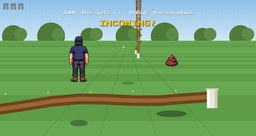
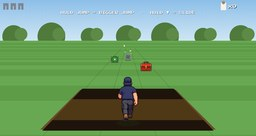
Cleanout Blowout: Crash-style run - hold for bigger jumps, stick steering, slide under high blasts and leaping dogs, septic holes, rolling trash cans, hose reels, toolboxes, TP rolls (25 = spare pants); falling corn only hurts if it lands on you
Claude-Session: https://claude.ai/code/session_01QR4rFRbYTeq9tRTzXkRUE8

diff --git a/arcade/games.js b/arcade/games.js
@@ -195,97 +195,148 @@ GAMES.push({
 });
 
 // =====================================================================
-// 2. CLEANOUT BLOWOUT — a 3D run across the yard to the van. Cleanouts blast jets ACROSS your path (jump them),
-//    and some shoot STRAIGHT UP, raining turds and corn (watch the shadows, switch lanes).
+// 2. CLEANOUT BLOWOUT — a Crash-style 3D run across the yard to the van.
+//    Jets blast across the path (jump: hold for a bigger jump), high blasts and leaping dogs (slide under),
+//    open septic holes, rolling trash cans, hose reels, geysers raining turds and corn (watch the shadows),
+//    TP rolls to grab and toolboxes to bust open.
 GAMES.push({
-  id: 'sprinkler', name: 'CLEANOUT BLOWOUT', tag: 'Run the yard · jump the jets · dodge the fallout',
-  how: ['The whole line backed up and every cleanout in the yard is blowing its cap. RUN FOR THE VAN.', 'Brown jets blast ACROSS the yard: JUMP over them (▲, SPACE, or tap the middle).', 'When a cleanout shoots STRAIGHT UP, turds and corn rain down. Watch for the SHADOWS and switch lanes (◀ ▶ or tap the sides).', 'Do not run into the cleanout pipes themselves.', 'Get hit too many times and that is it for your pants. Reach the van!'],
-  dpad: 'lr',
-  ctl: '◀ ▶ CHANGE LANE · ▲ / SPACE JUMP',
-  act: 'JUMP',
+  id: 'sprinkler', name: 'CLEANOUT BLOWOUT', tag: 'Run the yard · jump, slide, dodge · grab the TP',
+  how: ['The whole line backed up and every cleanout in the yard blew its cap. RUN FOR THE VAN.', 'JUMP the brown jets. Tap for a hop, HOLD for a big jump (the tall blasts and the long septic holes need a big one).', 'SLIDE under the high blasts and the dogs leaping at your head (hold ▼ or the SLIDE button).', 'When a cleanout shoots STRAIGHT UP, turds and corn rain down: watch the SHADOWS and steer clear. Dodge rolling trash cans and hose reels.', 'Grab TP rolls. 25 rolls = a spare pair of pants. Bust toolboxes open for more.'],
+  dpad: 'omni',
+  ctl: 'STICK STEER · ▲/SPACE JUMP (HOLD = HIGHER) · ▼/SHIFT SLIDE',
+  act: 'JUMP', act2: 'SLIDE',
   init(s) {
-    s.DIST = [430, 520, 600][s.diff]; s.z = 0; s.v = 0; s.lane = 0; s.lx = 0; s.jy = 0; s.jv = 0; s.objs = []; s.next = 22; s.n = 0;
-    s.pantsMax = s.pants = [4, 3, 3][s.diff]; s.inv = 0; s.hits = 0; s.splats = []; s.say = ''; s.sayT = 0;
+    s.DIST = [520, 620, 720][s.diff]; s.z = 0; s.v = 0; s.x = 0; s.tx = null; s.jy = 0; s.jv = 0; s.hold = 0; s.slide = 0; s.objs = []; s.next = 24; s.n = 0;
+    s.pantsMax = s.pants = [4, 3, 3][s.diff]; s.inv = 0; s.hits = 0; s.say = ''; s.sayT = 0; s.tp = 0; s.tpAll = 0; s.pops = []; s.fall = 0;
   },
-  G: 26, D: 6, HY: 92, FY: 246, LW: 92, U: 58,   /* gravity · camera distance · horizon y · feet y · lane width · px per world unit at the runner */
-  P(s, rel, lx, h) { const sc = this.D / (Math.max(-this.D * 0.9, rel) + this.D); return { x: 240 + lx * this.LW * sc, y: this.HY + (this.FY - this.HY) * sc - (h || 0) * this.U * sc, sc }; },
-  hit(s, word) { if (s.inv > 0) return; s.pants--; s.hits++; s.inv = 1.1; s.shake = 0.35; s.say = word; s.sayT = 1.2; SFX('splash', { vol: 0.7 }); },
+  G: 30, D: 6, HY: 92, FY: 246, LW: 92, U: 58, XM: 1.35,
+  P(s, rel, x, h) { const sc = this.D / (Math.max(-this.D * 0.9, rel) + this.D); return { x: 240 + x * this.LW * sc, y: this.HY + (this.FY - this.HY) * sc - (h || 0) * this.U * sc, sc }; },
+  hit(s, word) { if (s.inv > 0) return; s.pants--; s.hits++; s.inv = 1.2; s.shake = 0.35; s.say = word; s.sayT = 1.2; SFX('splash', { vol: 0.7 }); },
+  pop(s, txt, col) { s.pops.push({ txt, col: col || '#fff', t: 0 }); },
+  body(s) { return [s.jy, s.jy + (s.slide > 0 && s.jy <= 0 ? 0.75 : 1.7)]; },   /* feet to head (sliding: much lower) */
+  touch(s, o, lo, hi, half) { const [a, b2] = this.body(s); return Math.abs((o.x || 0) - s.x) < (half || 0.45) && a < hi && b2 > lo; },
+  piece(s, z, ramp) {   /* one set piece of the yard, Crash style. Returns how far until the next one. */
+    const O = s.objs, R2 = () => s.rnd(), lane = () => Math.floor(R2() * 3) - 1, tpLine = (z0, x, n, h, dz) => { for (let i = 0; i < n; i++) { O.push({ k: 'tp', wz: z0 + i * (dz || 1.6), x, h: typeof h === 'function' ? h(i) : h }); s.tpAll++; } };
+    const opts = [['jet', 5], ['jetT', 2 + ramp * 3], ['jetH', 2 + ramp * 2], ['dog', 2 + ramp * 3], ['hole', 2 + ramp * 3], ['can', 2 + ramp * 2], ['reel', 3], ['box', 2]];
+    if (s.n > 2) opts.push(['gey', 3 + ramp * 2]);
+    let tot = opts.reduce((q, o) => q + o[1], 0), r = R2() * tot, k = opts[0][0]; for (const o of opts) { if ((r -= o[1]) <= 0) { k = o[0]; break; } }
+    const side = R2() < 0.5 ? -1 : 1;
+    if (k === 'jet' || k === 'jetT' || k === 'jetH') { const h = k === 'jet' ? 0.38 : k === 'jetT' ? 0.85 : 1.45, th = k === 'jetT' ? 0.75 : 0.45;   /* low: hop · tall: big jump · high: slide under */
+      O.push({ k: 'jet', wz: z, side, c: h, th, wob: R2() * 6, kind: k }, { k: 'pipe', wz: z, x: side * 2.1, tall: k === 'jetH' ? 1.7 : 0.75 });
+      if (k !== 'jetH') tpLine(z - 3, 0, 4, i => (k === 'jetT' ? 1.6 : 1.2) * Math.sin((i / 3) * Math.PI) + 0.4, 2); else tpLine(z - 2, lane(), 3, 0.3, 1.5);
+      return k === 'jetT' ? 16 : 13; }
+    if (k === 'dog') { const n = s.diff >= 1 && R2() < 0.4 + ramp * 0.3 ? 2 : 1; for (let i = 0; i < n; i++) O.push({ k: 'dog', wz: z + i * 7, side: i % 2 ? -side : side, x: side * 2.4, f: 0 }); tpLine(z - 4, 0, 3, 0.3, 1.3); return 12 + n * 6; }   /* leaps across at your head: slide or get bit */
+    if (k === 'hole') { const len = 3 + R2() * (2 + ramp * 3.5); O.push({ k: 'hole', wz: z, len }); tpLine(z, 0, Math.max(2, Math.floor(len / 1.6)), 1.4, 1.6); return 12 + len; }   /* open septic hole: jump the whole thing */
+    if (k === 'can') { const n = 1 + (R2() < ramp ? 1 : 0); for (let i = 0; i < n; i++) O.push({ k: 'can', wz: z + 10 + i * 6, x: lane(), vz: -(5 + R2() * 3), spin: 0 }); return 14 + n * 5; }   /* rolling at you: dodge or hop */
+    if (k === 'reel') { const l = lane(); O.push({ k: 'reel', wz: z, x: l }); if (R2() < 0.5 + ramp * 0.4) O.push({ k: 'reel', wz: z + 4, x: l === 0 ? side : 0 }); tpLine(z - 2, l === 0 ? -side : 0, 4, 0.3, 1.5); return 13; }   /* hose reels: weave */
+    if (k === 'box') { const gold = R2() < 0.18; O.push({ k: 'box', wz: z, x: lane(), gold }); return 10; }   /* toolbox: bust it open */
+    if (k === 'gey') { O.push({ k: 'gey', wz: z, x: lane(), fired: false, col: 0 }); return 30 - 6 * ramp; }
+    return 12; },
   update(s, dt, I) {
-    s.t += dt; s.inv = Math.max(0, s.inv - dt); s.shake = Math.max(0, (s.shake || 0) - dt); s.sayT = Math.max(0, s.sayT - dt);
-    const ramp = Math.min(1, s.z / s.DIST); s.v = (12 + 7 * ramp) * s.k; s.z += s.v * dt;
-    // input: lanes, jump. On a phone: tap the left / right third to switch lanes, the middle to jump.
-    let jump = I.Ap || I.Up;
-    if (I.Lp) s.lane = Math.max(-1, s.lane - 1); if (I.Rp) s.lane = Math.min(1, s.lane + 1);
-    if (I.ptr.clicked) { const x = I.ptr.x / W; if (x < 0.33) s.lane = Math.max(-1, s.lane - 1); else if (x > 0.67) s.lane = Math.min(1, s.lane + 1); else jump = true; }
-    if (jump && s.jy <= 0) { s.jv = 9.2; SFX('ui_tap', { vol: 0.3 }); }
-    s.jv -= this.G * dt; s.jy = Math.max(0, s.jy + s.jv * dt); if (s.jy <= 0) s.jv = 0;
-    s.lx += (s.lane - s.lx) * Math.min(1, dt * 13);
-    // spawn ahead: jets across the yard, and geysers that rain
-    if (s.z + 70 > s.next && s.next < s.DIST - 25) { s.n++;
-      const gey = s.n > 2 && s.rnd() < 0.38;
-      if (gey) { s.objs.push({ k: 'gey', wz: s.next, lane: Math.floor(s.rnd() * 3) - 1, fired: false, col: 0 }); s.next += 30 - 6 * ramp; }
-      else { s.objs.push({ k: 'jet', wz: s.next, side: s.rnd() < 0.5 ? -1 : 1, wob: s.rnd() * 6 }); s.objs.push({ k: 'pipe', wz: s.next, lane: s.objs[s.objs.length - 1].side * 2.1 }); s.next += (17 - 5 * ramp) * (0.8 + s.rnd() * 0.5); } }
-    const hb = s.jy;   // how high your feet are
+    s.t += dt; s.inv = Math.max(0, s.inv - dt); s.shake = Math.max(0, (s.shake || 0) - dt); s.sayT = Math.max(0, s.sayT - dt); s.fall = Math.max(0, s.fall - dt);
+    s.pops.forEach(p => p.t += dt); s.pops = s.pops.filter(p => p.t < 1);
+    const ramp = Math.min(1, s.z / s.DIST); s.v = (11.5 + 6.5 * ramp) * s.k * (s.fall > 0 ? 0.3 : 1); s.z += s.v * dt;
+    // steer: stick / arrows slide you smoothly; taps on the sides hop one lane
+    if (I.L || I.R) { s.tx = null; s.x += (I.R ? 1 : -1) * 3.4 * dt; }
+    if (I.ptr.clicked) { const px = I.ptr.x / W; if (px < 0.33) s.tx = Math.max(-1, Math.round(s.x) - 1); else if (px > 0.67) s.tx = Math.min(1, Math.round(s.x) + 1); }
+    if (s.tx != null) { s.x += (s.tx - s.x) * Math.min(1, dt * 12); if (Math.abs(s.tx - s.x) < 0.02) s.tx = null; }
+    s.x = clamp(s.x, -this.XM, this.XM);
+    // jump: tap = hop, hold = big jump.  slide: hold down
+    const tapMid = I.ptr.clicked && I.ptr.x / W >= 0.33 && I.ptr.x / W <= 0.67, held = I.A || I.U || (I.ptr.down && I.ptr.x / W >= 0.33 && I.ptr.x / W <= 0.67);
+    if ((I.Ap || I.Up || tapMid) && s.jy <= 0 && s.fall <= 0) { s.jv = 7.2; s.hold = 0.28; s.slide = 0; SFX('ui_tap', { vol: 0.3 }); }
+    if (s.hold > 0) { s.hold -= dt; if (!held) s.hold = 0; }
+    if (s.jy > 0 || s.jv > 0) { s.jv -= this.G * (s.hold > 0 && s.jv > 0 ? 0.35 : 1) * dt; s.jy = Math.max(0, s.jy + s.jv * dt); if (s.jy <= 0) { s.jv = 0; s.hold = 0; } }
+    s.slide = (I.B || I.D) && s.jy <= 0 ? Math.min(1, s.slide + dt * 8) : Math.max(0, s.slide - dt * 6);
+    // the yard ahead
+    if (s.z + 75 > s.next && s.next < s.DIST - 30) { s.n++; s.next += this.piece(s, s.next, ramp) * (1.05 - 0.2 * ramp); }
     for (const o of s.objs) {
+      if (o.k === 'can') { o.wz += o.vz * dt; o.spin += dt * 8; }
+      if (o.k === 'dog') { const rel = o.wz - s.z, tt = rel / s.v; o.x = o.side * Math.max(-2.4, Math.min(2.4, 2.4 * (tt / 0.55))) ; o.air = Math.max(0, 1 - Math.abs(tt) / 0.55); o.f += dt; }   /* times its leap to cross right in front of you */
       const rel = o.wz - s.z, prev = o.rel == null ? rel : o.rel; o.rel = rel;
       if (o.k === 'gey' && !o.fired && rel < 30) {   // it blows straight up: the fallout lands around YOU
         o.fired = true; o.col = 1.3; SFX('gurgle', { vol: 0.8 }); s.say = 'INCOMING!'; s.sayT = 1;
-        const n = [4, 5, 6][s.diff] + Math.floor(ramp * 2);   /* staggered so there's always a way through */
-        for (let i = 0; i < n; i++) { const wz = s.z + 8 + i * (24 / n) + s.rnd() * 1.2, tt = (wz - s.z) / s.v + 0.15, corn = s.rnd() < 0.35;
-          s.objs.push({ k: corn ? 'corn' : 'turd', wz, lane: Math.floor(s.rnd() * 3) - 1, h: 0.5 * this.G * 0.45 * tt * tt, vh: 0, spin: s.rnd() * 6 }); } }
+        const n = [4, 5, 6][s.diff] + Math.floor(ramp * 2);
+        for (let i = 0; i < n; i++) { const wz = s.z + 8 + i * (24 / n) + s.rnd() * 1.2, tt = (wz - s.z) / s.v + 0.15, corn = s.rnd() < 0.4;
+          s.objs.push({ k: corn ? 'corn' : 'turd', wz, x: Math.floor(s.rnd() * 3) - 1, h: 0.5 * this.G * 0.4 * tt * tt, vh: 0, spin: s.rnd() * 6 }); } }
       if (o.k === 'gey') o.col = Math.max(0, o.col - dt);
-      if (o.k === 'turd' || o.k === 'corn') { if (o.h > 0) { o.vh -= this.G * 0.45 * dt; o.h = Math.max(0, o.h + o.vh * dt); if (o.h <= 0) { o.landed = true; if (rel > 1) SFX('squish', { vol: 0.25 }); } } }
-      if (prev > 0 && rel <= 0) {   // it reaches you this frame
-        if (o.k === 'jet' && hb < 0.95) this.hit(s, 'BLASTED!');
-        if (o.k === 'gey' && Math.abs(o.lane - s.lx) < 0.6 && hb < 1.0) this.hit(s, 'RAN INTO THE PIPE!');
-        if ((o.k === 'turd' || o.k === 'corn') && Math.abs(o.lane - s.lx) < 0.55 && o.h < hb + 1.7 && o.h + 0.4 > hb) this.hit(s, o.k === 'corn' ? 'CORNED!' : 'DIRECT HIT!');
+      if (o.k === 'turd' || o.k === 'corn') { if (o.h > 0) { o.vh -= this.G * 0.4 * dt; o.h = Math.max(0, o.h + o.vh * dt); if (o.h <= 0) o.landed = true; } }
+      if (o.gone) continue;
+      // things you pass THROUGH this frame
+      if (prev > 0 && rel <= 0) {
+        if (o.k === 'jet' && this.touch(s, { x: s.x }, o.c - o.th / 2, o.c + o.th / 2)) this.hit(s, o.kind === 'jetH' ? 'SHOULD HAVE SLID!' : o.kind === 'jetT' ? 'NEEDED A BIGGER JUMP!' : 'BLASTED!');
+        if (o.k === 'gey' && this.touch(s, o, 0, 0.9, 0.5)) this.hit(s, 'RAN INTO THE PIPE!');
+        if (o.k === 'reel' && this.touch(s, o, 0, 0.85, 0.5)) this.hit(s, 'TRIPPED ON A HOSE REEL!');
+        if (o.k === 'can' && this.touch(s, o, 0, 0.85, 0.5)) this.hit(s, 'TRASH CANNED!');
+        if (o.k === 'dog' && Math.abs(o.x - s.x) < 0.7 && this.body(s)[1] > 1.05 && s.jy < 1.9) { this.hit(s, 'BIT!'); }
+        if ((o.k === 'turd' || o.k === 'corn') && Math.abs(o.x - s.x) < 0.5 && o.h < 1.0 && s.jy < 0.9) this.hit(s, o.k === 'corn' ? 'CORNED!' : 'DIRECT HIT!');   /* only what LANDS on you counts */
+        if (o.k === 'tp' && this.touch(s, o, o.h - 0.35, o.h + 0.35, 0.5)) { o.gone = true; s.tp++; SFX('bead_pop' + (1 + s.tp % 5), { vol: 0.5, rate: 1.2 }); if (s.tp % 25 === 0) { s.pants = Math.min(s.pantsMax + 1, s.pants + 1); s.pantsMax = Math.max(s.pantsMax, s.pants); this.pop(s, 'SPARE PANTS!', '#7bd65b'); SFX('ut_get', { vol: 0.6 }); } }
+        if (o.k === 'box' && this.touch(s, o, 0, 1.0, 0.55)) { o.gone = true; o.open = true; SFX('wrench_hit', { vol: 0.6 }); if (o.gold) { s.pants = Math.min(s.pantsMax + 1, s.pants + 1); s.pantsMax = Math.max(s.pantsMax, s.pants); this.pop(s, 'GOLD TOOLBOX! SPARE PANTS!', '#f7c418'); } else { s.tp += 3; this.pop(s, '+3 TP', '#fff'); } if (s.jy > 0) s.jv = 6.5; }   /* land on it and you bounce, Crash style */
       }
+      // the hole: you're over it the whole time it's under you
+      if (o.k === 'hole' && rel <= 0 && rel > -o.len && s.jy <= 0 && s.fall <= 0 && !o.got) { o.got = true; this.hit(s, 'FELL IN THE SEPTIC!'); s.fall = 0.7; }
     }
-    s.objs = s.objs.filter(o => o.wz - s.z > -4);
+    s.objs = s.objs.filter(o => o.wz - s.z > -(o.len || 0) - 4);
     if (s.pants <= 0) s.end = { win: false, stars: 0, line: 'You did not make it to the van. You are not getting IN the van, either.' };
-    else if (s.z >= s.DIST) { SFX('door'); s.end = { win: true, stars: stars3(s.hits === 0, s.hits <= 1), line: s.hits ? `Made it to the van. Hit ${s.hits}x. Rod will make you ride in the back.` : 'Not a speck on you. Rod lets you ride up front.' }; }
+    else if (s.z >= s.DIST) { SFX('door'); const pct = s.tpAll ? s.tp / s.tpAll : 1; s.end = { win: true, stars: stars3(s.hits === 0 && pct >= 0.6, s.hits <= 1), line: (s.hits ? `Made the van. Hit ${s.hits}x.` : 'Not a speck on you!') + ` ${s.tp} TP rolls.` + (s.hits ? ' Rod makes you ride in the back.' : ' Rod lets you ride up front.') }; }
   },
   draw(s) {
     const { HY, FY, D } = this, sh = s.shake > 0 ? (Math.random() - 0.5) * 6 : 0, t = s.t;
-    g.save(); g.translate(sh, 0);
-    // sky, the neighbors' houses and trees on the horizon
+    g.save(); g.translate(sh, s.fall > 0 ? 6 : 0);
     const sky = g.createLinearGradient(0, 0, 0, HY); sky.addColorStop(0, '#7fb6e6'); sky.addColorStop(1, '#cfe6f4'); g.fillStyle = sky; g.fillRect(-6, 0, W + 12, HY);
     for (let i = 0; i < 9; i++) { const x = ((i * 71 - s.z * 0.3) % 560 + 560) % 560 - 40; C(x, HY - 8, 16 + (i % 3) * 5, '#4f7a3c'); C(x + 14, HY - 12, 12, '#5d8a46'); }
-    // the lawn: mowing stripes rushing at you
     for (let y = HY; y < H; y += 2) { const rel = D * (FY - HY) / Math.max(0.5, y - HY) - D, k = Math.floor((s.z + rel) / 3) % 2; R(-6, y, W + 12, 2, k ? '#5e9c48' : '#68a852'); }
-    // the path: the lanes, a little worn
-    for (const lx of [-1.5, -0.5, 0.5, 1.5]) { const a = this.P(s, 60, lx), b2 = this.P(s, -1, lx); g.strokeStyle = 'rgba(60,90,40,.35)'; g.lineWidth = 1; g.beginPath(); g.moveTo(a.x, a.y); g.lineTo(b2.x, b2.y); g.stroke(); }
-    // the van, waiting at the end of the yard
+    for (const lx of [-1.5, -0.5, 0.5, 1.5]) { const a = this.P(s, 60, lx), b2 = this.P(s, -1, lx); g.strokeStyle = 'rgba(60,90,40,.3)'; g.lineWidth = 1; g.beginPath(); g.moveTo(a.x, a.y); g.lineTo(b2.x, b2.y); g.stroke(); }
     { const rel = s.DIST - s.z + 4; if (rel < 75 && IMG.van_back) { const p = this.P(s, rel, 0), im = IMG.van_back, fw = im.width / 6, h = 2.6 * this.U * p.sc, w = h * fw / im.height; g.imageSmoothingEnabled = true; g.drawImage(im, 0, 0, fw, im.height, p.x - w / 2, p.y - h, w, h); g.imageSmoothingEnabled = false; } }
-    // everything in the yard, far to near
-    const L = s.objs.filter(o => o.wz - s.z > -1).sort((a, b) => (b.wz - s.z) - (a.wz - s.z));
+    // holes first (they're IN the ground)
+    for (const o of s.objs) if (o.k === 'hole') { const rel = o.wz - s.z, a = this.P(s, Math.max(-0.5, rel), -1.6), b2 = this.P(s, Math.max(-0.5, rel), 1.6), c = this.P(s, Math.max(-0.5, rel - o.len), 1.6), d = this.P(s, Math.max(-0.5, rel - o.len), -1.6);
+      if (rel - o.len > 60) continue; g.fillStyle = '#6b4a2a'; g.beginPath(); g.moveTo(a.x - 4, a.y + 2); g.lineTo(b2.x + 4, b2.y + 2); g.lineTo(c.x + 4, c.y - 2); g.lineTo(d.x - 4, d.y - 2); g.fill();
+      g.fillStyle = '#1e140b'; g.beginPath(); g.moveTo(a.x, a.y); g.lineTo(b2.x, b2.y); g.lineTo(c.x, c.y); g.lineTo(d.x, d.y); g.fill();
+      g.fillStyle = 'rgba(110,80,30,.6)'; g.beginPath(); g.moveTo((a.x * 3 + d.x) / 4, (a.y * 3 + d.y) / 4); g.lineTo((b2.x * 3 + c.x) / 4, (b2.y * 3 + c.y) / 4); g.lineTo((b2.x + c.x * 3) / 4, (b2.y + c.y * 3) / 4); g.lineTo((a.x + d.x * 3) / 4, (a.y + d.y * 3) / 4); g.fill(); }   /* the muck at the bottom */
+    const L = s.objs.filter(o => o.k !== 'hole' && !o.gone && o.wz - s.z > -1).sort((a, b) => (b.wz - s.z) - (a.wz - s.z));
     for (const o of L) { const rel = o.wz - s.z;
-      if (o.k === 'pipe' || o.k === 'gey') { const lane = o.k === 'gey' ? o.lane : o.lane, p = this.P(s, rel, lane), w = 0.42 * this.U * p.sc, h = 0.75 * this.U * p.sc;   /* a white PVC cleanout sticking out of the grass */
+      if (o.k === 'pipe' || o.k === 'gey') { const p = this.P(s, rel, o.x), w = 0.42 * this.U * p.sc, h = (o.tall || 0.75) * this.U * p.sc;
         R(p.x - w / 2, p.y - h, w, h, '#e9e6dc'); R(p.x - w / 2, p.y - h, w * 0.25, h, '#ffffff'); R(p.x + w * 0.25, p.y - h, w * 0.25, h, '#c9c4b6'); R(p.x - w * 0.6, p.y - h - 2 * p.sc, w * 1.2, 4 * p.sc, '#d6d2c6');
-        if (o.k === 'gey' && o.col > 0) { const a2 = Math.min(1, o.col), cw = Math.max(6, w * 1.1), top = 16;   /* the geyser: a thick brown column, chunks flying up out of it */
+        if (o.k === 'gey' && o.col > 0) { const a2 = Math.min(1, o.col), cw = Math.max(6, w * 1.1), top = 16;
           const gr = g.createLinearGradient(p.x - cw / 2, 0, p.x + cw / 2, 0); gr.addColorStop(0, `rgba(90,54,22,${a2})`); gr.addColorStop(0.5, `rgba(150,98,46,${a2})`); gr.addColorStop(1, `rgba(90,54,22,${a2})`); g.fillStyle = gr;
           g.beginPath(); g.moveTo(p.x - cw * 0.4, p.y - h); g.lineTo(p.x - cw * 0.9, top); g.lineTo(p.x + cw * 0.9, top); g.lineTo(p.x + cw * 0.4, p.y - h); g.fill();
           for (let i = 0; i < 10; i++) { const yy = p.y - h - ((t * 260 + i * 37) % (p.y - h - top)), xx = p.x + Math.sin(t * 13 + i * 2.1) * cw * 0.8; if (i % 3) C(xx, yy, Math.max(2, 4 * p.sc), `rgba(110,68,28,${a2})`); else R(xx, yy, 3, 3, '#f2c12e'); } }
         if (o.k === 'gey' && !o.fired && rel < 45 && Math.floor(t * 10) % 2) T('!', p.x, p.y - h - 10 * p.sc - 4, '#e9665a', Math.max(6, Math.round(12 * p.sc)), 'center'); }
-      if (o.k === 'jet') { const a = this.P(s, rel, o.side * 2.1, 0.45), b2 = this.P(s, rel, -o.side * 3.2, 0.3), th = 0.42 * this.U * a.sc;   /* the blast across the path */
-        g.strokeStyle = '#6e4420'; g.lineWidth = th; g.lineCap = 'round'; g.beginPath(); g.moveTo(a.x, a.y); for (let i = 1; i <= 8; i++) { const f = i / 8; g.lineTo(a.x + (b2.x - a.x) * f, a.y + (b2.y - a.y) * f + Math.sin(t * 18 + o.wob + i) * th * 0.25 + f * f * th * 0.6); } g.stroke();
+      if (o.k === 'jet') { const a = this.P(s, rel, o.side * 2.1, o.c), b2 = this.P(s, rel, -o.side * 3.2, o.c * 0.85), th = o.th * this.U * a.sc;
+        g.strokeStyle = o.kind === 'jetH' ? '#5a3618' : '#6e4420'; g.lineWidth = th; g.lineCap = 'round'; g.beginPath(); g.moveTo(a.x, a.y); for (let i = 1; i <= 8; i++) { const f = i / 8; g.lineTo(a.x + (b2.x - a.x) * f, a.y + (b2.y - a.y) * f + Math.sin(t * 18 + o.wob + i) * th * 0.2 + f * f * th * 0.5); } g.stroke();
         g.strokeStyle = '#9a6634'; g.lineWidth = th * 0.4; g.stroke(); g.lineCap = 'butt';
-        for (let i = 0; i < 5; i++) { const f = ((t * 2.2 + i * 0.2 + o.wob) % 1); R(a.x + (b2.x - a.x) * f, a.y + (b2.y - a.y) * f - th * 0.7, 2 * a.sc + 1, 2 * a.sc + 1, '#f2c12e'); } }   /* corn riding the jet */
-      if (o.k === 'turd' || o.k === 'corn') { const gp = this.P(s, rel, o.lane, 0), sz = (o.k === 'corn' ? 0.28 : 0.55) * this.U * gp.sc;
-        if (!o.landed) { const near = Math.max(0, 1 - o.h / 10); g.fillStyle = `rgba(30,40,20,${0.15 + 0.4 * near})`; g.beginPath(); g.ellipse(gp.x, gp.y, sz * (0.5 + 0.6 * near), sz * 0.22 * (0.5 + 0.6 * near), 0, 0, 7); g.fill(); }   /* the shadow: where it lands */
-        const p = this.P(s, rel, o.lane, o.h);
-        if (o.k === 'turd') { if (o.landed) { if (!SPC('splat_' + (Math.floor(o.spin) % 4), gp.x, gp.y - sz * 0.1, gp.sc * 0.9)) C(gp.x, gp.y, sz * 0.5, '#6e4420'); } else if (!SPC('poop', p.x, p.y - sz * 0.4, gp.sc * 0.9 * this.U / 58)) C(p.x, p.y - sz * 0.4, sz * 0.4, '#6e4420'); }
-        else { for (let i = 0; i < 3; i++) { const ox = (i - 1) * sz * 0.6, oy = Math.sin(o.spin + i) * sz * 0.3; g.fillStyle = '#f2c12e'; g.beginPath(); g.ellipse(p.x + ox, p.y - sz * 0.5 + oy, sz * 0.22, sz * 0.3, o.spin + t * (o.landed ? 0 : 8), 0, 7); g.fill(); } } } }
-    // you, running away from the camera
-    { const p = this.P(s, 0, s.lx), who = s.hero || 'matt', run = s.jy > 0 ? 7 : (IMG[who + '_walk'] ? 22 + Math.floor(t * 10) % 4 : 7);
+        for (let i = 0; i < 5; i++) { const f = ((t * 2.2 + i * 0.2 + o.wob) % 1); R(a.x + (b2.x - a.x) * f, a.y + (b2.y - a.y) * f - th * 0.7, 2 * a.sc + 1, 2 * a.sc + 1, '#f2c12e'); }
+        if (rel < 40 && rel > 3) { const tag = o.kind === 'jetH' ? 'SLIDE' : o.kind === 'jetT' ? 'BIG JUMP' : null; if (tag) T(tag, 240 + o.side * 0.0, a.y - th - 8 * a.sc - 2, o.kind === 'jetH' ? '#9fd1ff' : '#f7c418', Math.max(5, Math.round(9 * a.sc)), 'center'); } }
+      if (o.k === 'reel') { const p = this.P(s, rel, o.x), r2 = 0.42 * this.U * p.sc; R(p.x - r2 * 1.1, p.y - r2 * 0.2, r2 * 2.2, r2 * 0.2, '#3a3a3a'); C(p.x, p.y - r2, r2, '#2d6b2a'); C(p.x, p.y - r2, r2 * 0.7, '#3f8a3a'); C(p.x, p.y - r2, r2 * 0.25, '#d0d0c0'); R(p.x - r2 * 1.1, p.y - r2 * 1.9, r2 * 0.2, r2 * 1.9, '#555'); R(p.x + r2 * 0.9, p.y - r2 * 1.9, r2 * 0.2, r2 * 1.9, '#555'); }   /* hose reel */
+      if (o.k === 'can') { const p = this.P(s, rel, o.x), r2 = 0.42 * this.U * p.sc;   /* a metal trash can rolling at you, bottom-first, garbage flying out */
+        g.fillStyle = 'rgba(30,40,20,.35)'; g.beginPath(); g.ellipse(p.x, p.y, r2, r2 * 0.25, 0, 0, 7); g.fill();
+        C(p.x, p.y - r2, r2, '#8a9096'); C(p.x, p.y - r2, r2 * 0.82, '#6b7177'); g.save(); g.translate(p.x, p.y - r2); g.rotate(o.spin); g.strokeStyle = '#4e5358'; g.lineWidth = Math.max(1, r2 * 0.12);
+        for (let i = 0; i < 4; i++) { g.beginPath(); g.moveTo(0, 0); g.lineTo(Math.cos(i * Math.PI / 2) * r2 * 0.8, Math.sin(i * Math.PI / 2) * r2 * 0.8); g.stroke(); } g.restore(); C(p.x, p.y - r2, r2 * 0.2, '#4e5358');
+        for (let i = 0; i < 3; i++) { const f = (t * 3 + i * 0.33) % 1; R(p.x + Math.sin(i * 2 + o.wz) * r2 * 1.2, p.y - r2 * 2 - f * r2 * 1.5, 3, 2, ['#e8dcc0', '#c9a46a', '#7bd65b'][i]); } }
+      if (o.k === 'box') { const p = this.P(s, rel, o.x), sz = 0.75 * this.U * p.sc; if (!(o.gold && Math.floor(t * 6) % 2 === 0 && false)) { if (MG('sr_toolbox')) { const im = MG('sr_toolbox'), w = sz * 1.3, h = w * im.height / im.width; g.imageSmoothingEnabled = true; if (o.gold) g.filter = 'sepia(1) saturate(4) brightness(1.25)'; g.drawImage(im, p.x - w / 2, p.y - h, w, h); g.filter = 'none'; g.imageSmoothingEnabled = false; } else R(p.x - sz / 2, p.y - sz, sz, sz, o.gold ? '#f7c418' : '#c0392b'); } }
+      if (o.k === 'tp') { const p = this.P(s, rel, o.x, o.h), r2 = Math.max(2, 0.2 * this.U * p.sc), bob = Math.sin(t * 6 + o.wz) * r2 * 0.2;   /* a roll of TP, spinning */
+        const ww = r2 * (0.6 + 0.4 * Math.abs(Math.cos(t * 4 + o.wz))); g.fillStyle = '#f4f2ea'; g.fillRect(p.x - ww, p.y - r2 * 1.2 + bob, ww * 2, r2 * 2.4); g.fillStyle = '#d8d4c6'; g.fillRect(p.x - ww, p.y - r2 * 1.2 + bob, ww * 0.4, r2 * 2.4); C(p.x, p.y - r2 * 1.2 + bob, Math.max(1, ww * 0.35), '#a08a60'); }
+      if (o.k === 'dog') { const p = this.P(s, rel, o.x, 0.6 + (o.air || 0) * 0.9), im = MG('dog_' + (Math.floor(o.f * 8) % 2)), h = 0.9 * this.U * p.sc;   /* leaping at your head, mouth open */
+        const gp = this.P(s, rel, o.x, 0); g.fillStyle = 'rgba(30,40,20,.3)'; g.beginPath(); g.ellipse(gp.x, gp.y, h * 0.5, h * 0.12, 0, 0, 7); g.fill();
+        if (im) { const w = h * im.width / im.height; g.save(); g.translate(p.x, p.y - h / 2); if (o.side > 0) g.scale(-1, 1); g.rotate(-0.25); g.imageSmoothingEnabled = false; g.drawImage(im, -w / 2, -h / 2, w, h); g.restore(); } else C(p.x, p.y - h / 2, h / 2, '#a0602a');
+        if (rel < 30 && rel > 2) T('SLIDE!', p.x, p.y - h - 6 * p.sc - 3, '#9fd1ff', Math.max(5, Math.round(9 * p.sc)), 'center'); }
+      if (o.k === 'turd' || o.k === 'corn') { const gp = this.P(s, rel, o.x, 0), sz = (o.k === 'corn' ? 0.3 : 0.55) * this.U * gp.sc;
+        if (!o.landed) { const near = Math.max(0, 1 - o.h / 10); g.fillStyle = `rgba(30,40,20,${0.2 + 0.45 * near})`; g.beginPath(); g.ellipse(gp.x, gp.y, sz * (0.6 + 0.6 * near), sz * 0.25 * (0.6 + 0.6 * near), 0, 0, 7); g.fill(); }
+        const p = this.P(s, rel, o.x, o.h);
+        if (o.k === 'turd') { if (o.landed) { if (!SPC('splat_' + (Math.floor(o.spin) % 4), gp.x, gp.y - sz * 0.1, gp.sc * 0.9)) C(gp.x, gp.y, sz * 0.5, '#6e4420'); } else if (!SPC('poop', p.x, p.y - sz * 0.4, gp.sc * 0.9)) C(p.x, p.y - sz * 0.4, sz * 0.4, '#6e4420'); }
+        else for (let i = 0; i < 3; i++) { const ox = (i - 1) * sz * 0.6, oy = Math.sin(o.spin + i) * sz * 0.3; g.fillStyle = '#f2c12e'; g.beginPath(); g.ellipse(p.x + ox, p.y - sz * 0.5 + oy, sz * 0.22, sz * 0.3, o.spin + t * (o.landed ? 0 : 8), 0, 7); g.fill(); } } }
+    // you
+    { const p = this.P(s, 0, s.x), who = s.hero || 'matt', run = s.jy > 0 ? 7 : (IMG[who + '_walk'] ? 22 + Math.floor(t * 10) % 4 : 7), sl = s.slide;
       g.fillStyle = 'rgba(30,40,20,.4)'; g.beginPath(); g.ellipse(p.x, p.y, 22 - Math.min(10, s.jy * 4), 6, 0, 0, 7); g.fill();
-      if (!(s.inv > 0 && Math.floor(t * 12) % 2)) SPR(who, run, p.x, p.y - s.jy * this.U + (s.jy > 0 ? 0 : Math.abs(Math.sin(t * 20)) * -2), false, 2.4); }
+      if (!(s.inv > 0 && Math.floor(t * 12) % 2)) { const fy = p.y - s.jy * this.U + (s.fall > 0 ? 30 : 0);
+        if (sl > 0.05) { g.save(); g.translate(p.x, fy); g.scale(1 + sl * 0.2, 1 - sl * 0.5); SPR(who, 7, 0, 0, false, 2.4); g.restore(); for (let i = 0; i < 4; i++) C(p.x + (Math.random() - 0.5) * 30, p.y - 2, 2, 'rgba(90,140,60,.8)'); }   /* sliding on the wet grass */
+        else SPR(who, run, p.x, fy + (s.jy > 0 ? 0 : -Math.abs(Math.sin(t * 20)) * 2), false, 2.4); } }
     g.restore();
-    // HUD: distance to the van
-    R(0, 0, W, 16, 'rgba(16,21,31,.92)'); T('CLEANOUT BLOWOUT', 6, 8, '#f7c418', 8); T('VAN ' + Math.max(0, Math.ceil((s.DIST - s.z) * 1.5)) + ' FT', W - 6, 8, '#fff', 8, 'right');
-    BAR(150, 5, 130, 6, Math.min(1, s.z / s.DIST), '#7bd65b'); PANTS(s, 6, 22);
+    R(0, 0, W, 16, 'rgba(16,21,31,.92)'); T('CLEANOUT BLOWOUT', 6, 8, '#f7c418', 7); T('VAN ' + Math.max(0, Math.ceil((s.DIST - s.z) * 1.5)) + ' FT', W - 6, 8, '#fff', 7, 'right');
+    BAR(150, 5, 120, 6, Math.min(1, s.z / s.DIST), '#7bd65b'); PANTS(s, 6, 22);
+    { const x0 = W - 60, y0 = 28; g.fillStyle = '#f4f2ea'; g.fillRect(x0 - 6, y0 - 7, 10, 14); C(x0 - 1, y0 - 7, 3, '#a08a60'); T('x' + s.tp, x0 + 8, y0, '#fff', 8); }   /* TP count */
     if (s.sayT > 0) T(s.say, 240, 60, s.say === 'INCOMING!' ? '#f7c418' : '#e9665a', 12, 'center');
-    if (s.t < 3) T('JUMP the jets  ·  DODGE the shadows', 240, 40, '#fff', 7, 'center');
+    s.pops.forEach((p, i) => T(p.txt, 240, 84 - p.t * 20 - i * 12, p.col, 9, 'center'));
+    if (s.t < 3.5) T('HOLD JUMP = BIGGER JUMP  ·  HOLD ▼ = SLIDE', 240, 40, '#fff', 6, 'center');
   },
 });
 

diff --git a/arcade/index.html b/arcade/index.html
@@ -78,7 +78,8 @@
   #pad.lr .A{right:15%;left:auto;bottom:28%;width:13%}
   /* left-handed: everything mirrors */
   #pad .B{display:none;left:4%;bottom:52%;width:13%;border-radius:50%;border-color:#9fd1ff;font-size:clamp(8px,1.5cqw,15px)}
-  #pad.crawl .A,#pad.crawl.b2 .B{display:none}   /* Under the Trailer: everything is tapped right on the screen (BAG and the fight buttons live in the right panel) */
+  #pad.crawl .A,#pad.crawl.b2 .B{display:none}
+  #pad.runner .A{right:3%;bottom:30%;width:14%} #pad.runner.b2 .B{left:auto;right:5%;bottom:5%;width:12%}   /* Cleanout Blowout: JUMP over SLIDE on the right thumb */   /* Under the Trailer: everything is tapped right on the screen (BAG and the fight buttons live in the right panel) */
   #pad.b2 .B{display:block} #pad.lr .B{left:15%;bottom:28%}   /* the second button: the same action on the left (SPIN), or a left-thumb action (HOLD BREATH) */
   #pad.lefty .A{right:auto;left:4%}
   #pad.lefty.lr .A{left:15%;right:auto}
@@ -172,7 +173,7 @@ function showPad() {
   const G = cur != null ? GAMES[cur] : null;
   $('#pad').classList.toggle('on', padOn && (phase === 'play' || phase === 'ready') && !(G && G.pad === false));
   $('#pad').classList.toggle('lefty', ((DDT.get() || {}).hand) === 'L');
-  $('#pad').classList.toggle('nodp', !!(G && G.dpad === false)); $('#pad').classList.toggle('lr', !!(G && G.dpad === 'lr')); $('#pad').classList.toggle('ud', !!(G && G.dpad === 'ud')); $('#pad').classList.toggle('stick', !!(G && (G.dpad === 'stick' || G.dpad === 'omni'))); $('#pad').classList.toggle('b2', !!(G && G.act2)); $('#pad').classList.toggle('crawl', !!(G && G.id === 'crawl')); if (G && G.act2) $('#act2').textContent = G.act2; STICK_OMNI = !!(G && G.dpad === 'omni');
+  $('#pad').classList.toggle('nodp', !!(G && G.dpad === false)); $('#pad').classList.toggle('lr', !!(G && G.dpad === 'lr')); $('#pad').classList.toggle('ud', !!(G && G.dpad === 'ud')); $('#pad').classList.toggle('stick', !!(G && (G.dpad === 'stick' || G.dpad === 'omni'))); $('#pad').classList.toggle('b2', !!(G && G.act2)); $('#pad').classList.toggle('crawl', !!(G && G.id === 'crawl')); $('#pad').classList.toggle('runner', !!(G && G.id === 'sprinkler')); if (G && G.act2) $('#act2').textContent = G.act2; STICK_OMNI = !!(G && G.dpad === 'omni');
   $('#actbtn').textContent = (G && G.act) || 'GO'; $('#actbtn').style.display = G && G.act === null ? 'none' : '';
   $('#padbtn').textContent = padOn ? 'PAD ON' : 'PAD';
 }
